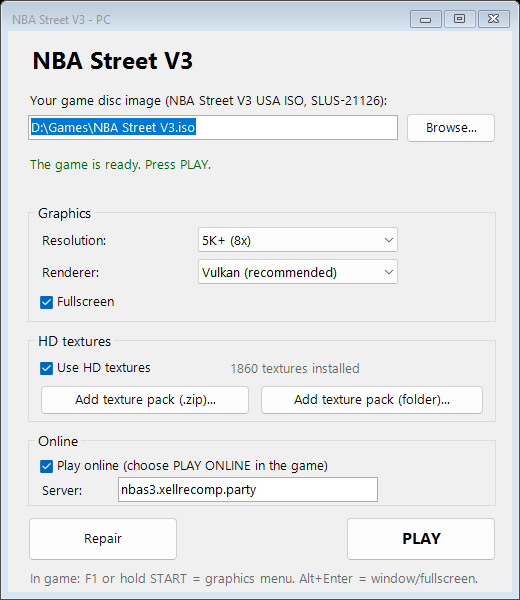
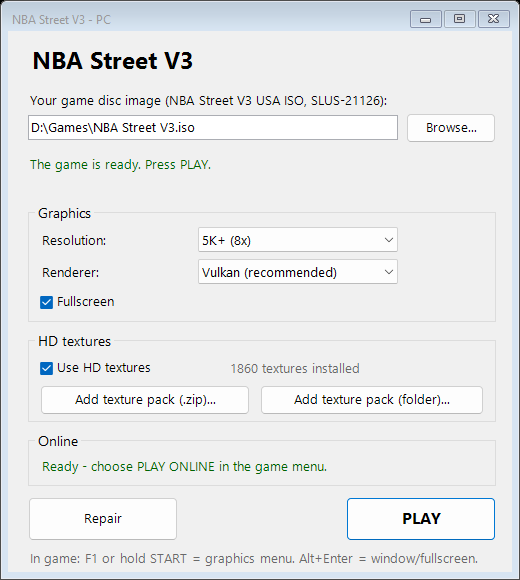
Plug and play: HD textures installed automatically, online always on with the community server

diff --git a/README.md b/README.md
@@ -7,8 +7,9 @@ Play **NBA Street V3** (PS2) natively on Windows: high resolution, HD textures, 
 [PS2Recomp](https://github.com/ran-j/PS2Recomp) and drawn on your GPU by the renderer of
 [PCSX2](https://github.com/PCSX2/pcsx2).
 
-> **This project contains NOTHING from the game**: no ISO, no game files, no textures. You need
-> **your own copy** of NBA Street V3 (USA version, SLUS-21126) as an ISO file.
+> **You need your own copy** of NBA Street V3 (USA version, SLUS-21126) as an ISO file. This project
+> does not include the game: no ISO and no game code (the game is built on your PC from your copy).
+> The only extra download is the fan-made HD texture pack.
 
 | | |
 |---|---|
@@ -31,8 +32,9 @@ Play **NBA Street V3** (PS2) natively on Windows: high resolution, HD textures, 
 
 <p align="center"><img src="docs/screenshots/launcher.png" alt="Launcher" width="420"></p>
 
-In the launcher you can also choose the **resolution** (up to 5K), the **renderer**, **fullscreen**,
-**HD textures** and **online** play. While playing, **F1** or **holding START** opens the graphics menu
+**HD textures** are downloaded and turned on automatically during **Prepare game**, and **online**
+play is always ready. In the launcher you can also choose the **resolution** (up to 5K), the
+**renderer** and **fullscreen**. While playing, **F1** or **holding START** opens the graphics menu
 and **Alt+Enter** switches between window and fullscreen.
 
 Why does it build the game instead of shipping it? The program contains the game's own code
@@ -45,7 +47,7 @@ translated to C++, so it can't be distributed; it's made on your PC from your ow
   emulated, VU1 microprograms run on PCSX2's microVU recompiler.
 - **Modern GPU rendering** through PCSX2's GS: Vulkan, Direct3D 11/12 or OpenGL, internal resolution
   from native 480p up to 8x (5K+), texture filtering, 4:3 or stretched 16:9, fullscreen.
-- **HD texture packs**, installed with one click from the launcher (see [HD textures](#hd-textures)).
+- **HD textures included**: downloaded and enabled automatically (see [HD textures](#hd-textures)).
 - **Online play restored** against a community server: EA accounts, personas, online ballers,
   PLAY NOW matches, no port forwarding. See [Online mode](#online-mode).
 - **One-click launcher**: choose your ISO, prepare once, play.
@@ -55,13 +57,13 @@ translated to C++, so it can't be distributed; it's made on your PC from your ow
 
 ## HD textures
 
-1. Get an HD texture pack for NBA Street V3 (PCSX2 format, usually a `.zip` full of `.png` files).
-2. In the launcher click **Add texture pack (.zip)...** (or **(folder)...** if you already unzipped it).
-3. Press **PLAY**. That's it: the launcher installs the pack, turns HD textures on, and automatically
-   skips the few textures that are known to break the image (grainy menus, broken button icons).
+Nothing to do: **Prepare game** downloads the HD texture pack (`NBAStreetV3-HD-Textures.zip`, about
+250 MB, from the same release) and turns it on. You can switch HD textures off and on with **Use HD
+textures** in the launcher or in the in-game graphics menu.
 
-You can switch HD textures on and off with **Use HD textures** in the launcher or in the in-game
-graphics menu. Texture packs are not included here (they are made from the game's own images).
+Other packs (PCSX2 format, a `.zip` or a folder of `.png` files) can be added with **Add texture
+pack** in the launcher; it automatically skips the few textures known to break the image (grainy
+menus, broken button icons).
 
 <details>
 <summary>Making your own pack (advanced)</summary>
@@ -79,12 +81,12 @@ graphics menu. Texture packs are not included here (they are made from the game'
 
 ## Online mode
 
-NBA Street V3's original EA Online service closed years ago; this port brings it back. Online is on
-by default in the launcher (**Play online**).
+NBA Street V3's original EA Online service closed years ago; this port brings it back. Online is
+always ready: there is nothing to set up.
 
 How to play a match:
 
-1. In the launcher keep **Play online** ticked and press **PLAY**.
+1. Press **PLAY** in the launcher.
 2. In the game: **PLAY ONLINE** -> **YES** -> select **"1 - NBA Street Online (DHCP)"** -> connect.
    Don't use "New/Edit" on that screen.
 3. First time only: create an account (user name of 4+ letters, any e-mail and password — they are
